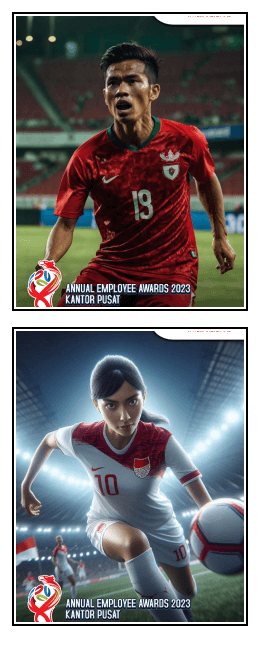
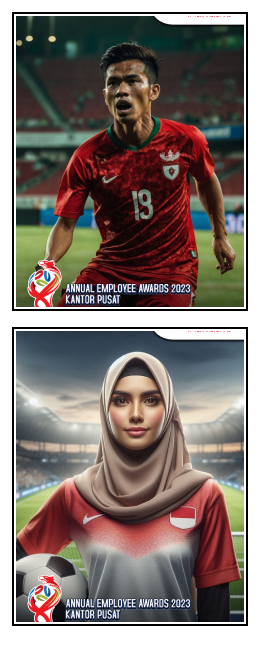
hijab

diff --git a/app/pertamina/style/page.js b/app/pertamina/style/page.js
@@ -3,7 +3,7 @@
 import * as fal from '@fal-ai/serverless-client';
 import Image from "next/image";
 import { useEffect, useState, useMemo } from 'react';
-import TopLogoPertamina from "./../../components/TopLogoPertamina";
+import TopLogoMizuho from "./../../components/TopLogoMizuho";
 import { Paytone_One} from "next/font/google";
 const paytone_one = Paytone_One({ subsets: ["latin"], weight: '400' });
 import { useRouter } from 'next/navigation';
@@ -47,7 +47,7 @@ export default function Register() {
                 localStorage.setItem("formasiFix", character)
             }
         }else if(character == 'hijab'){
-            urlGambar = 'https://ai.zirolu.id/pertamina/style/hijab-'+getRandomInt(1, 8)+'.jpeg';
+            urlGambar = 'https://ai.zirolu.id/pertamina/style/hijab-'+getRandomInt(1, 7)+'.jpeg';
 
             if (typeof localStorage !== 'undefined') {
                 localStorage.setItem("styleFix", urlGambar)
@@ -67,8 +67,8 @@ export default function Register() {
     return (
         <main className="flex fixed h-full w-full bg-mizuho overflow-auto flex-col items-center pt-2 pb-5 px-5 lg:pt-5 lg:px-20">
             <div className="flex relative h-full w-fulll max-w-xl overflow-auto flex-col items-center">
-                <TopLogoPertamina></TopLogoPertamina>
-                <h1 className={`text-center text-2xl lg:mt-20 mb-0 ${paytone_one.className}`}>IDENTIFY YOURSELF</h1>
+                <TopLogoMizuho></TopLogoMizuho>
+                <h1 className={`text-center text-2xl lg:mt-4 mb-0 ${paytone_one.className}`}>IDENTIFY YOURSELF</h1>
                 {/* <h2 className={`text-center text-base mb-0 uppercase  ${paytone_one.className}`}>The style will be random GENErATE by AI</h2> */}
                 {/* PILIH STYLE */}
                 <div className={`relative w-[100%] mx-auto`}>

diff --git a/app/pertamina/cam/page.js b/app/pertamina/cam/page.js
@@ -3,7 +3,7 @@
 import * as fal from '@fal-ai/serverless-client';
 import { useEffect, useRef, useState, useMemo } from 'react';
 import Image from "next/image";
-import TopLogoPertamina from "./../../components/TopLogoPertamina";
+import TopLogoMizuho from "./../../components/TopLogoMizuho";
 import { Paytone_One} from "next/font/google";
 const paytone_one = Paytone_One({ subsets: ["latin"], weight: '400' });
 import Link from 'next/link';
@@ -220,7 +220,7 @@ export default function Cam() {
     return (
         <main className="flex fixed h-full w-full bg-mizuho overflow-auto flex-col items-center pt-2 pb-5 px-5 lg:pt-5 lg:px-20">
             <div className="flex relative h-full w-fulll max-w-xl overflow-auto flex-col items-center">
-                <TopLogoPertamina></TopLogoPertamina>
+                <TopLogoMizuho></TopLogoMizuho>
                 {/* LOADING */}
                 {numProses1 && 
                     <div className='absolute top-0 left-0 right-0 bottom-0 flex items-center justify-center flex-col z-20'>
@@ -246,7 +246,7 @@ export default function Cam() {
                 }
                 {/* LOADING */}
                 
-                <h1 className={`text-center text-2xl mt-2 lg:mt-20 mb-0 ${paytone_one.className}`}>TAKE SELFIE</h1>
+                <h1 className={`text-center text-2xl mt-2 lg:mt-4 mb-0 ${paytone_one.className}`}>TAKE SELFIE</h1>
                 <div className={`relative w-[80%] mx-auto flex flex-col justify-center items-center mt-2 mb-3 lg:mt-2 lg:mb-2 ${numProses1 ? 'opacity-0 pointer-events-none' : ''}`}>
                     <div className='relative'>
                         {captured && 

diff --git a/app/pertamina/result/page.js b/app/pertamina/result/page.js
@@ -2,7 +2,7 @@
 
 import Link from 'next/link';
 import Image from "next/image";
-import TopLogoPertamina from "./../../components/TopLogoPertamina";
+import TopLogoMizuho from "./../../components/TopLogoMizuho";
 import { getCookie } from 'cookies-next';
 import { useEffect, useState, useMemo } from 'react';
 import { useQRCode } from 'next-qrcode';
@@ -94,7 +94,7 @@ export default function Result() {
     return (
         <main className="flex fixed h-full w-full bg-mizuho overflow-x-hidden overflow-y-auto flex-col items-center pt-2 pb-5 px-5 lg:pt-5 lg:px-20">
             <div className="flex relative h-full w-fulll max-w-lg overflow-x-hidden overflow-y-auto flex-col items-center">
-                <TopLogoPertamina></TopLogoPertamina>
+                <TopLogoMizuho></TopLogoMizuho>
 
             {/* QR */}
             {generateQR && 
@@ -128,7 +128,7 @@ export default function Result() {
             }
             {/* QR */}
 
-            <div className={generateQR ? `opacity-0 pointer-events-none` : 'mt-14'}>
+            <div className={generateQR ? `opacity-0 pointer-events-none` : 'mt-4'}>
                 {imageResultAI && 
                 <div className='relative w-[364px] mt-4 mx-auto flex justify-center items-center  border-2 border-[#ffffff] rounded-sm' onClick={downloadImageAI}>
                     <div className='relative bg-slate-500' id='capture'>

diff --git a/app/pertamina/page.js b/app/pertamina/page.js
@@ -1,6 +1,6 @@
 import Image from "next/image";
 import Link from 'next/link';
-import TopLogoPertamina from "./../components/TopLogoPertamina";
+import TopLogoMizuho from "./../components/TopLogoMizuho";
 import { Paytone_One} from "next/font/google";
 const paytone_one = Paytone_One({ subsets: ["latin"], weight: '400' });
 
@@ -8,8 +8,8 @@ export default function MizuhoHome() {
   return (
     <main className="flex fixed h-full w-full bg-mizuho overflow-auto flex-col items-center pt-2 pb-5 px-5 lg:pt-5 lg:px-20">
       <div className="flex relative h-full w-fulll max-w-xl overflow-auto flex-col items-center">
-        <TopLogoPertamina></TopLogoPertamina>
-        <h1 className={`text-center text-xl mt-2 lg:mt-20 lg:text-2xl lg:mb-5 ${paytone_one.className}`}>AI PHOTOBOOTH</h1>
+        <TopLogoMizuho></TopLogoMizuho>
+        <h1 className={`text-center text-xl mt-2 lg:mt-4 lg:text-2xl lg:mb-5 ${paytone_one.className}`}>AI PHOTOBOOTH</h1>
         <div className="relative w-full flex justify-center items-center mt-5 mb-6 lg:mt-6 lg:mb-5">
           <div className='animate-upDown relative w-1/3 mx-1 flex justify-center items-center pointer-events-none'>
             <Image src='/pertamina/preview-1.png' width={365} height={640} alt='Zirolu' className='w-full' priority />

diff --git a/app/pertamina/how/page.js b/app/pertamina/how/page.js
@@ -2,15 +2,15 @@
 
 import Link from 'next/link';
 import Image from "next/image";
-import TopLogoPertamina from "./../../components/TopLogoPertamina";
+import TopLogoMizuho from "./../../components/TopLogoMizuho";
 import { Paytone_One} from "next/font/google";
 const paytone_one = Paytone_One({ subsets: ["latin"], weight: '400' });
 export default function How() {
     return (
         <main className="flex fixed h-full w-full bg-mizuho overflow-auto flex-col items-center pt-2 pb-5 px-5 lg:pt-5 lg:px-20">
             <div className="flex relative h-full w-fulll max-w-xl overflow-auto flex-col items-center">
-                <TopLogoPertamina></TopLogoPertamina>
-                <h1 className={`text-center text-xl mt-2 lg:mt-20 lg:text-2xl lg:mb-5 ${paytone_one.className}`}>HOW TO</h1>
+                <TopLogoMizuho></TopLogoMizuho>
+                <h1 className={`text-center text-xl mt-2 lg:mt-4 lg:text-2xl lg:mb-5 ${paytone_one.className}`}>HOW TO</h1>
                 <div className="relative w-full flex flex-col justify-center items-center mt-3 mb-3">
                     <div className='relative w-[60%] lg:mb-2'>
                         <Image src='/mizuho/how-to.png' width={550} height={679} alt='Zirolu' className='w-full' priority />

diff --git a/app/components/TopLogoMizuho.js b/app/components/TopLogoMizuho.js
@@ -3,7 +3,7 @@ import React from 'react';
 
 const TopLogoMizuho = () => {
   return (
-    <a href='/' className='relative w-[120px] lg:w-[190px] mx-auto flex justify-center items-center z-50'>
+    <a href='/pertamina' className='relative w-[120px] lg:w-[190px] mx-auto flex justify-center items-center z-50'>
       <Image src='/mizuho/logo.png' width={234} height={100} alt='Zirolu' className='w-full' priority />
     </a>
   );
